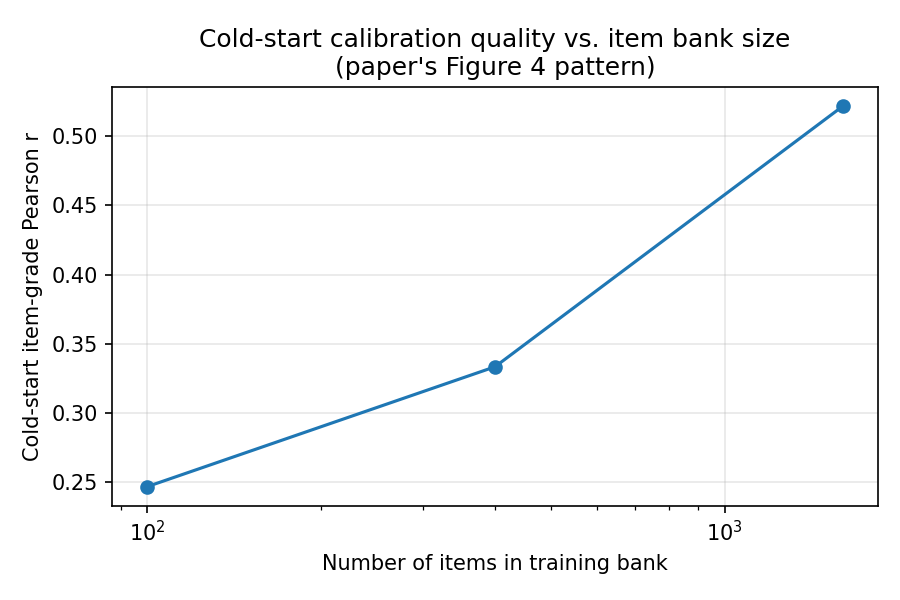
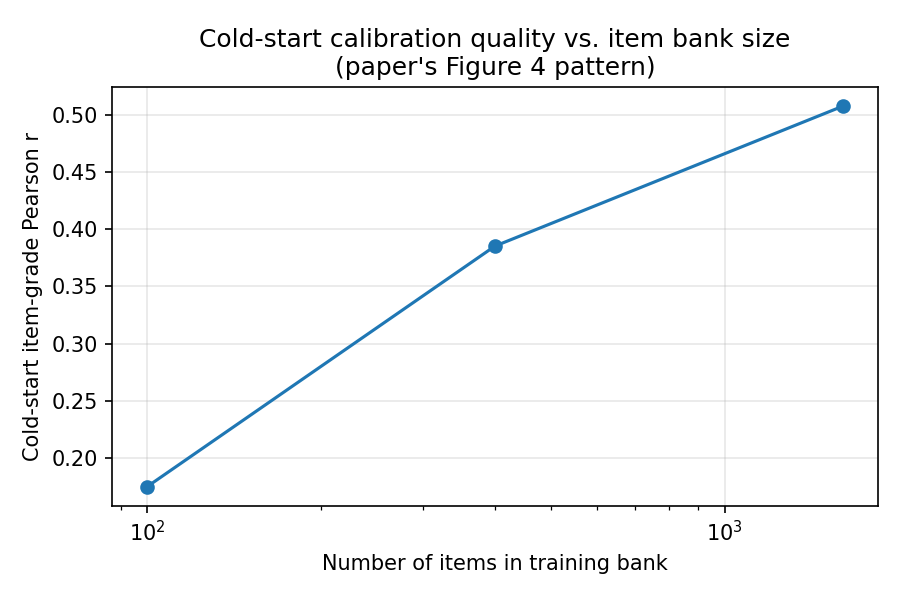
Add DET-phase results and Week 2 progress report

diff --git a/results/Week2_Progress_Report.md b/results/Week2_Progress_Report.md
@@ -1,0 +1,92 @@
+# AutoIRT Replication — Progress Report 2: DET-Phase Calibration
+
+**Reporting period: July 19 – July 26, 2026**
+**Prepared by:** Shalin Bhavsar
+**Supervisor:** Dr. Yi Zheng, Arizona State University
+
+---
+
+## Overview
+
+This report covers three things from your last round of feedback: how warm-start and cold-start are actually implemented (with citations to where the paper defines them), what I found when I looked into the MCEM termination rule, and results from the DET-style two-item-type calibration (Phase 2).
+
+---
+
+## 1. Warm-start / cold-start / jump-start implementation
+
+The paper introduces these as three general calibration scenarios before it gets into the DET-specific analysis (p. 3, "Online English Proficiency Testing" — "There are three primary use cases for calibration"):
+
+- Cold-start: new pilot items with no response data at all, calibrated from item features alone, while the operational bank is re-calibrated in parallel.
+- Jump-start: a limited number of responses have come in for new pilot items during piloting, on top of the operational bank.
+- Warm-start: re-calibrating an existing operational bank to reflect recent data, e.g. after a UI change or a shift in the test-taker population.
+
+Same page also gives the per-session item counts I used: 18 Y/N Vocab items and 9 ViC items per session.
+
+The offline DET analysis (p. 6, "Offline calibration analysis for DET") turns these into concrete train/test splits, and this is what `run_det_experiment.py` implements directly:
+
+1. **Cold-start**: pick a split date (2024-05-22 in the paper), randomly hold out 50% of items as pilot items. Train on operational-item responses before the split date. Test on everything after the split
+   date, pilot and operational both.
+2. **Jump-start (R = 20, 40, 80)**: same item/date split, but training also gets the first R post-split responses per pilot item. Test is whatever's left over.
+3. **Warm-start**: no item holdout, just a date split. The paper uses two dates, 2024-05-08 and 2024-05-15.
+
+I don't have real DET timestamps, so each simulated session gets a random "day" over a 79-day window standing in for the paper's real window (2024-04-01 to 2024-06-18), and the split days are computed from their actual dates rather than picked arbitrarily — day 51 for cold/jump-start, days 37 and 44 for the two warm-start splits.
+
+- `split_cold_start()` masks training rows to operational items with `day < split_day`; test is everything with `day >= split_day`.
+- `split_jump_start()` does the same, then walks through each pilot item's post-split responses in order (day, then a response counter to break same-day ties) and keeps the first R per item for training.
+- `split_warm_start()` is just a date mask, no item logic.
+
+Both item types get their own ability parameter, matching the paper's Method section (p. 3: "We separately model the ViC and Y/N Vocab item parameters and ability, so that each item type has its own associated θs"), and their own fixed chance parameter from the offline analysis section (p. 6): c = 0.25 for Y/N Vocab since it's multiple choice, c = 0 for ViC since guessing isn't realistic there.
+
+---
+
+## 2. MCEM termination rule
+
+Algorithm 1 (top of p. 4) really is just `for each EM iteration do` — no stopping condition in it anywhere. The paper's choice of 4 iterations comes from a separate empirical note later in the Results section (training loss was roughly flat within 4 steps for their simulation settings), not a general rule.
+
+The standard reference for an automated MCEM stopping rule is Booth & Hobert (1999, JRSS B, 61(1), 265–285) — they build a confidence interval around each iteration's parameter update using its Monte Carlo error, and stop once the update is statistically indistinguishable from zero. Their full method needs machinery I don't have here (standard errors on each item parameter from repeated draws), so I built a simpler version in the same spirit: track the training loss I'm already logging each step, and stop once its relative change has stayed under 0.5% for most of a short window of recent steps, with a hard cap so it can't run forever.
+
+Re-running the original 400-item / 20,000-session scenario with this in place, every run needed 9-12 iterations to actually settle, never close to 4. Running to real convergence improved warm-start test loss from 0.583 to 0.535 and tightened the spread across seeds. Cold-start barely moved, which tells me the step count was never what was holding cold-start back — that lines up with the item-bank-size effect from the last report.
+
+One thing I want to flag rather than gloss over: no simple threshold rule handles every trajectory cleanly. While testing this on the Phase 2 runs below, one condition (ViC Jump 20) converged fine under an earlier, stricter version of this rule, then failed to converge once I widened the rule to fix two other conditions' noisy trajectories. Fixing one failure mode introduced a different one elsewhere. Instead of continuing to tune thresholds against a handful of runs, I'm treating `hit_max_em_steps` as a legitimate outcome for the noisiest, smallest-data conditions, and flagging it plainly when it happens rather than hiding it (see the Jump
+20 row below).
+
+---
+
+## 3. Phase 2 results: DET-style two-item-type calibration
+
+Item banks: 150 Y/N Vocab items, 80 ViC items (the real DET has 3,290 and 585 — mine are scaled down so iteration is fast enough to debug), 1,500 simulated sessions, 50% of each bank held out as pilot items.
+
+### Y/N Vocab
+
+| Split | Loss | Pearson | Spearman | EM steps | Paper's AutoIRT (Loss / Pears. / Spear.) |
+|---|---|---|---|---|---|
+| Cold | 0.594 | 0.519 | 0.404 | 9 | 0.456 / 0.785 / 0.822 |
+| Jump 20 | 0.544 | 0.836 | 0.697 | 15 | 0.428 / 0.936 / 0.944 |
+| Jump 40 | 0.529 | 0.857 | 0.736 | 13 | 0.426 / 0.955 / 0.962 |
+| Jump 80 | 0.523 | 0.937 | 0.802 | 16 | 0.423 / 0.971 / 0.973 |
+| Warm 05-08 | 0.528 | 0.925 | 0.780 | 8 | 0.431 / 0.987 / 0.991 |
+| Warm 05-15 | 0.528 | 0.923 | 0.788 | 9 | 0.423 / 0.987 / 0.989 |
+
+### ViC
+
+| Split | Loss | Pearson | Spearman | EM steps | Paper's AutoIRT (Loss / Pears. / Spear.) |
+|---|---|---|---|---|---|
+| Cold | 0.556 | 0.523 | 0.432 | 19 | 0.435 / 0.742 / 0.786 |
+| Jump 20 | 0.489 | 0.857 | 0.808 | 20 (didn't fully converge, see above) | 0.381 / 0.954 / 0.959 |
+| Jump 40 | 0.474 | 0.880 | 0.882 | 18 | 0.374 / 0.978 / 0.979 |
+| Jump 80 | 0.485 | 0.915 | 0.860 | 18 | 0.371 / 0.989 / 0.989 |
+| Warm 05-08 | 0.475 | 0.928 | 0.910 | 18 | 0.359 / 0.998 / 0.997 |
+| Warm 05-15 | 0.463 | 0.930 | 0.913 | 17 | 0.355 / 0.998 / 0.997 |
+
+(Paper numbers are Table 1, p. 7 for Y/N Vocab and Table 2, p. 7 for ViC,
+AutoIRT rows only.)
+
+The ordering matches the paper exactly for both item types — Cold worst, Jump-start climbing with R, Warm-start best. Everything is quantitatively below the paper's numbers though, most sharply at Cold-start (Y/N Vocab
+0.519 vs. their 0.785; ViC 0.523 vs. their 0.742). I don't think that's a separate problem from the item-bank-size finding in the last report — the operational banks here are small after the 50% pilot holdout (75 Y/N Vocab items, 40 ViC items), and ViC, with the smaller bank of the two, comes out weaker on cold-start than Y/N Vocab, which is exactly what that earlier finding would predict.
+
+---
+
+## Next steps
+
+- Scale up the item bank sizes here and see if the gap narrows the same way it did in the earlier sweep.
+- Move on to the AutoGluon comparison I mentioned last time, to see how much of the remaining warm-start gap comes from the hand-built ensemble versus their AutoML backend.
